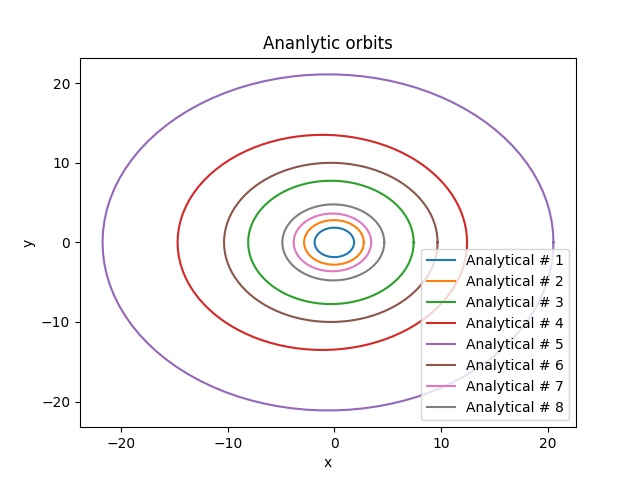
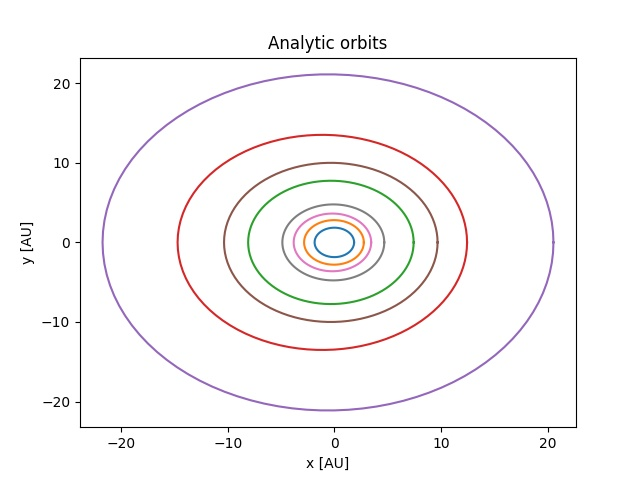
la til enheter og fikset en skrivefeil i plott

diff --git a/Part_2.py b/Part_2.py
@@ -36,26 +36,9 @@ planet_analytical.plot(1)
 planet_numerical = Planets_numerical(system, 0)
 planet_numerical.leapfrog()
 planet_numerical.plot(1)
-plt.legend()
 plt.title('Numerical and analytical')
-plt.xlabel('x')
-plt.ylabel('y')
+plt.xlabel('x [AU]')
+plt.ylabel('y [AU]')
 plt.savefig('numerical-and-analytical.png')
 
 plt.show()
-
-r_home_planet = planet_numerical.r
-t_home_planet = planet_numerical.t
-v_home_planet = planet_numerical.v
-np.save('position_vector_home_planet', r_home_planet)
-np.save('time_home_planet', t_home_planet)
-np.save('velocity_home_planet', v_home_planet)
-
-
-'''
-r = np.linspace(0,10,10)
-print(r)
-np.save('array', r)
-r_load = np.load('array.npy')
-print(r_load)
-'''

diff --git a/task_1.py b/task_1.py
@@ -22,11 +22,10 @@ class Planets_analytical:
         theta = np.linspace(0,2*np.pi,101)
         x = self.r * np.cos(self.f)
         y = self.r * np.sin(self.f)
-        plt.plot(x, y, label=f'Analytical # {number}')
-        plt.title('Ananlytic orbits')
-        plt.xlabel('x')
-        plt.ylabel('y')
-        plt.legend(loc='lower right')
+        plt.plot(x, y)
+        plt.title('Analytic orbits')
+        plt.xlabel('x [AU]')
+        plt.ylabel('y [AU]')
 
 if __name__=='__main__':
     seed = utils.get_seed('antonabr')

diff --git a/task_2.py b/task_2.py
@@ -50,11 +50,10 @@ class Planets_numerical:
         self.v, self.r = run()
 
     def plot(self, number):
-        plt.plot(self.r[:,0],self.r[:,1], label=f'Numerical #{number}')
+        plt.plot(self.r[:,0],self.r[:,1])
         plt.title('Numerical orbits')
-        plt.xlabel('x')
-        plt.ylabel('v')
-        plt.legend(loc='lower right')
+        plt.xlabel('x [AU]')
+        plt.ylabel('v [AU]')
 
 if __name__=='__main__':
     seed = utils.get_seed('antonabr')
